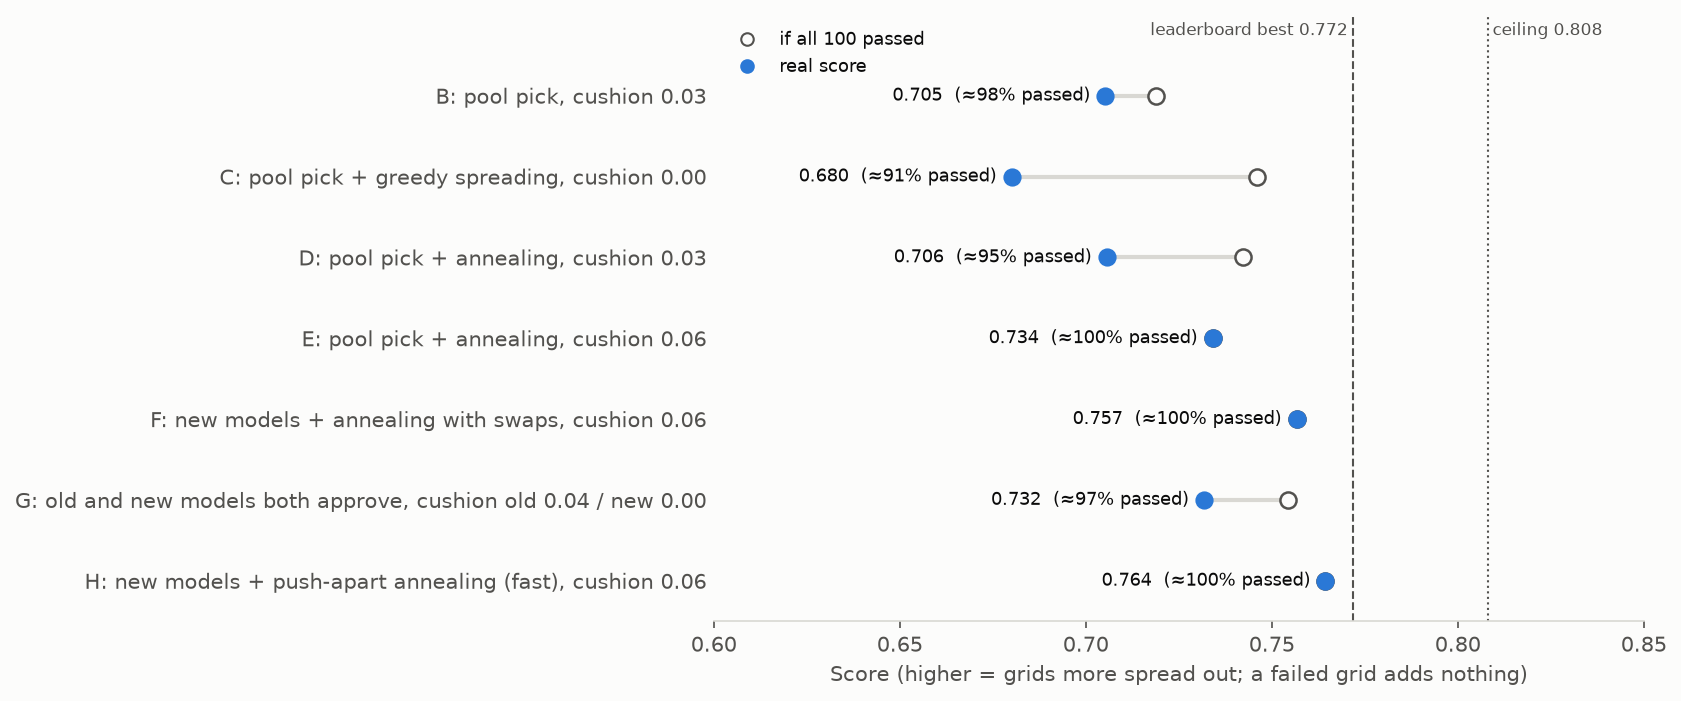
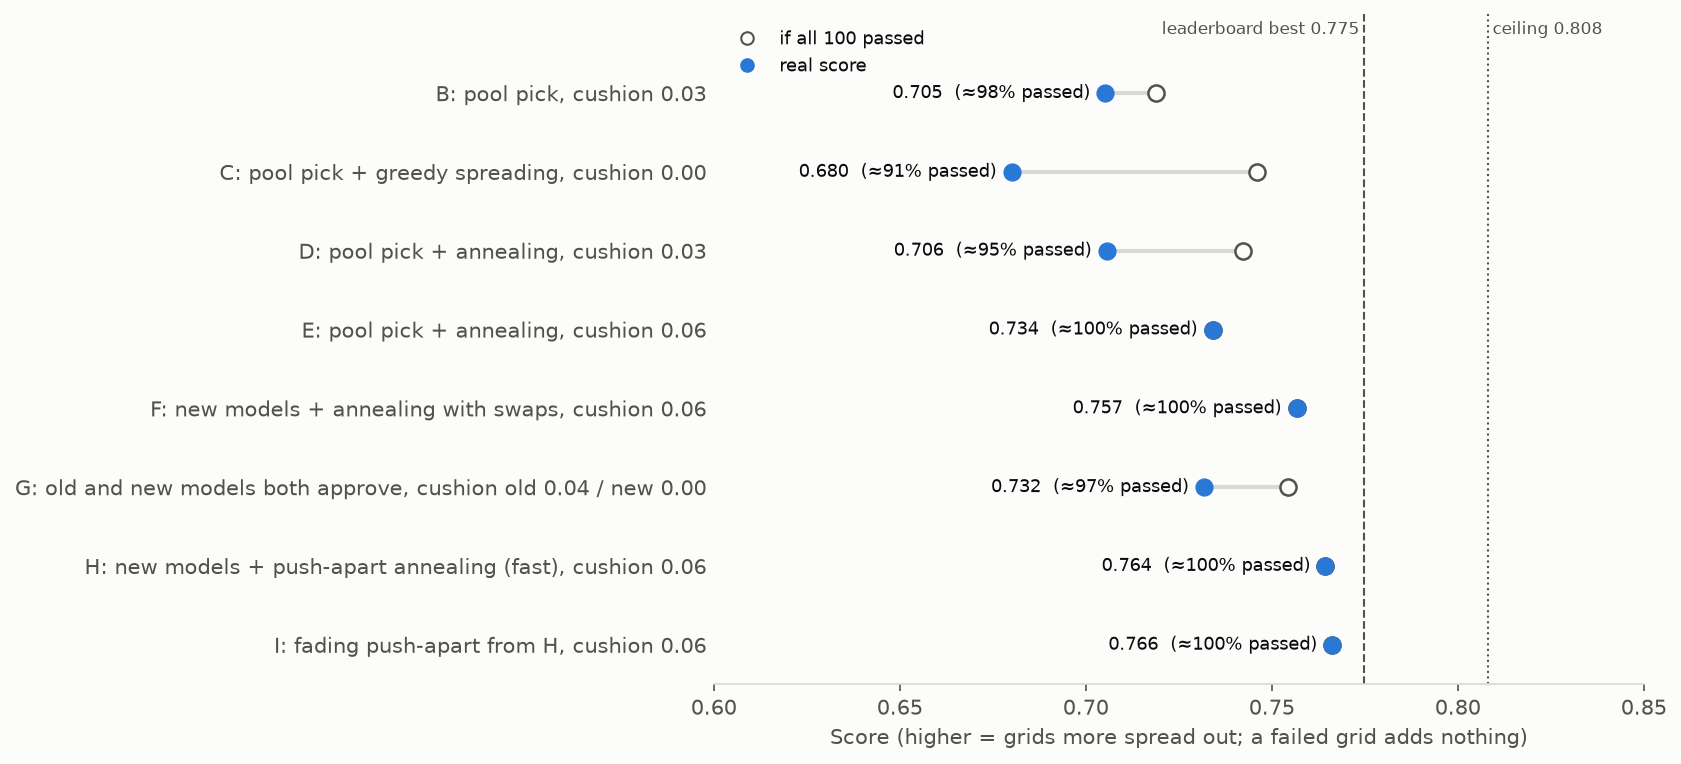
Try I on the scoreboard (0.7662, all 100 passed); leader line 0.7749; 9-10 Nov log

diff --git a/make_figures.py b/make_figures.py
@@ -109,7 +109,7 @@ def stage2():
 
 
 SCOREBOARD = os.path.join(validity.PS2_ROOT, "docs", "scoreboard.csv")
-LEADERBOARD_BEST = 0.7718  # the course leaderboard's top score, 7 Nov 2026
+LEADERBOARD_BEST = 0.7749  # the course leaderboard's top score, 10 Nov 2026
 
 
 def stage4():

diff --git a/docs/decisions.md b/docs/decisions.md
@@ -49,6 +49,7 @@ Terms: [`stage1_evaluation.md`](stage1_evaluation.md) and the "Words" list in
 | 8 Nov | 5 networks at weight 0.5 for Wellness and Tax: held-out approvals 718 → 730 and 900 → 916 | Five networks |
 | 9 Nov | Held-out failures by cushion back 0.06; a Tax-only cushion of 0.02 dropped | Held-out failures by cushion |
 | 9 Nov | Push-apart annealing (fast): try H 0.7644, all 100 passed, 3rd | Push-apart annealing; try H |
+| 9–10 Nov | Fading the push, then two- and three-cell changes: try I 0.7662, all 100 passed; N and O up to 0.7695 if all pass | Chains of passes; two- and three-cell changes |
 
 ## The rules in plain words
 
@@ -1303,3 +1304,29 @@ scoreboard, 9 Nov.
 *Source:* session scratchpad (orient_mix.py, norule_fast.py, norule_energy.py); fast_anneal.py and
 its runs (data/fast_*.log); the course scoreboard, 9 Nov.
 
+### 9–10 November 2026 (evening and night): Chains of passes; two- and three-cell changes
+
+- **Fading the push:** the push-apart weight falls from 2 to 0 over a pass
+  (`data/scratch_keep/scripts/fast_anneal_v2.py`). Each pass starts from the last one's output.
+- **Two- and three-cell changes:** each update also offers random edits of two or three cells at
+  once (`fast_anneal_v3.py`, `fast_anneal_v4.py`). They let a design cross a grid the models would
+  not approve, which one-cell edits and swaps cannot.
+- **Chains, cushion 0.06, score if all pass:**
+
+  | Chain | Start | Passes |
+  |---|---|---|
+  | 1 | try H (0.7644) | fade 0.7662 (I) → 0.7670 (J) → 0.7673 → two-cell 0.7675 → 0.7679, then stuck |
+  | 2 | 100 pool designs (0.6816) | fade 0.7651 → … → 0.7668 → two-cell 0.7679 (K) → 0.7685 (L) → 0.7687 → three-cell 0.7690 (M) → … → 0.7695 (N) |
+  | 3 | same pool start | two-cell from the start 0.7677 → 0.7682–0.7685, then stuck (stopped) |
+  | 4 | same pool start | two-cell from the start 0.7680 → … → 0.7690 (O) |
+
+- **What didn't help:** a second seed of I's recipe (0.7657 against 0.7662); picking the best 100
+  from about 650 approved designs of all runs (no swap beat chain 1's set); hot restarts of a
+  stuck chain (fell 0.7679 → 0.7675).
+- **Try I:** real score 0.7662244898, equal to its score if all pass, so all 100 passed again.
+  Standing (10 Nov, best per team): Shape Grapplers 0.7749, Neural Net November 0.7671, us 0.7662.
+- **N and O share no designs** (each of O's is about 30 cells from N's nearest), so a failure in
+  one says nothing about the other.
+
+*Source:* data/fast_*.log; data/scratch_keep/scripts/chain.sh and chain_t.sh; the course
+scoreboard, 10 Nov.
